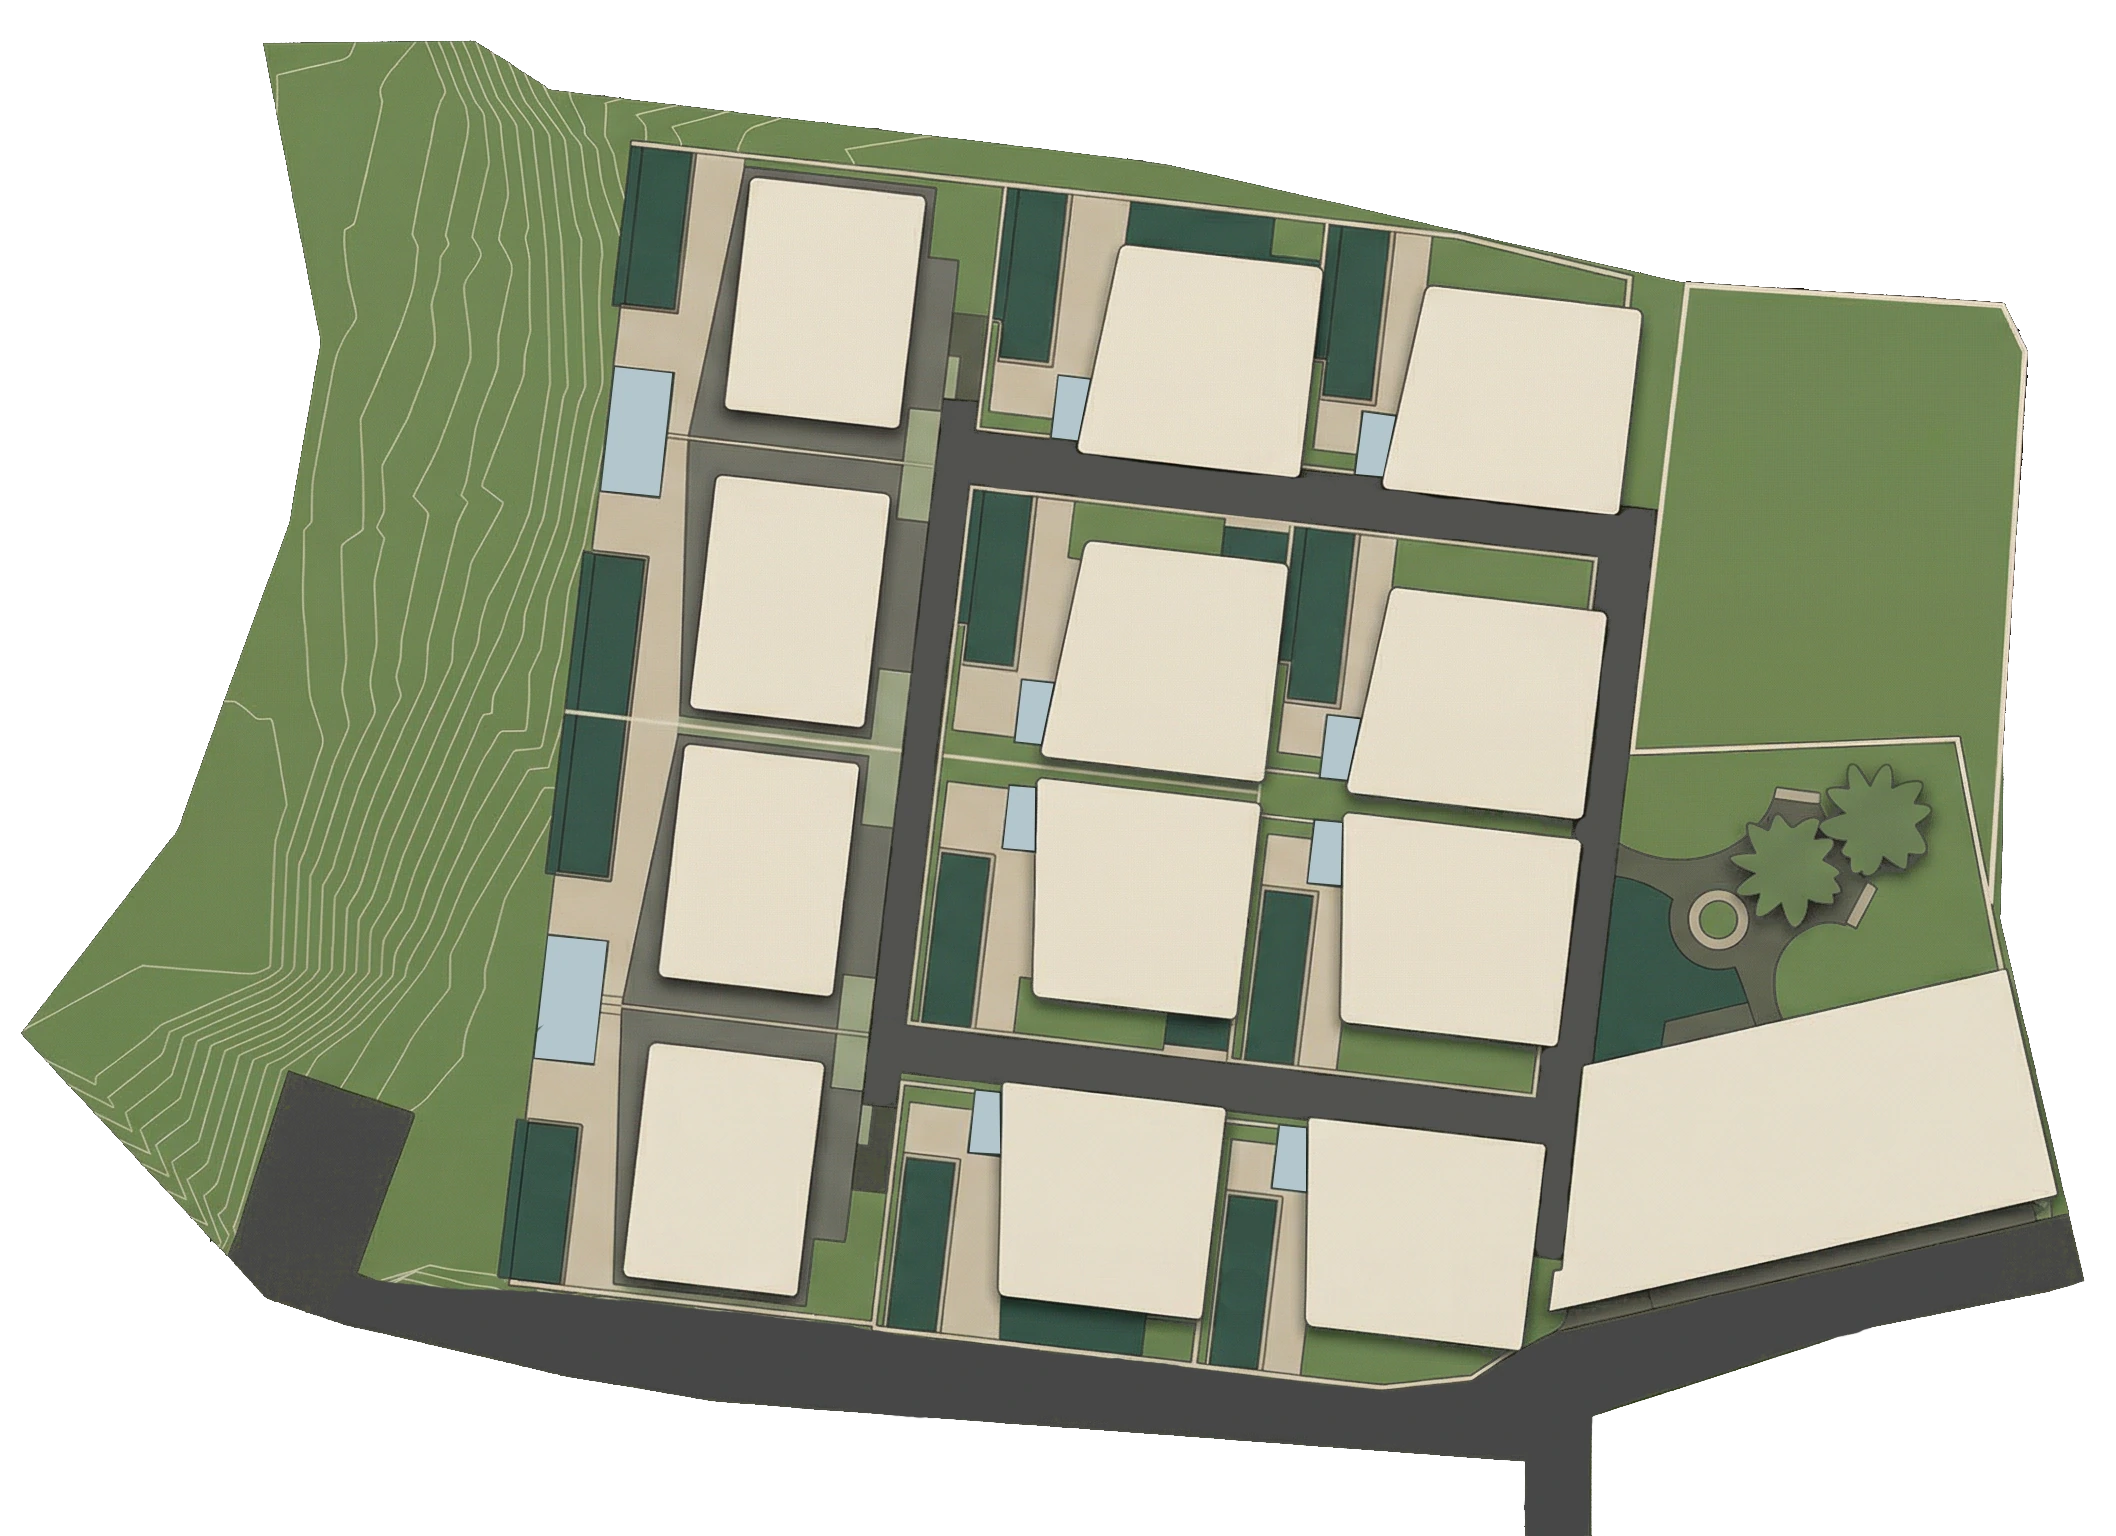
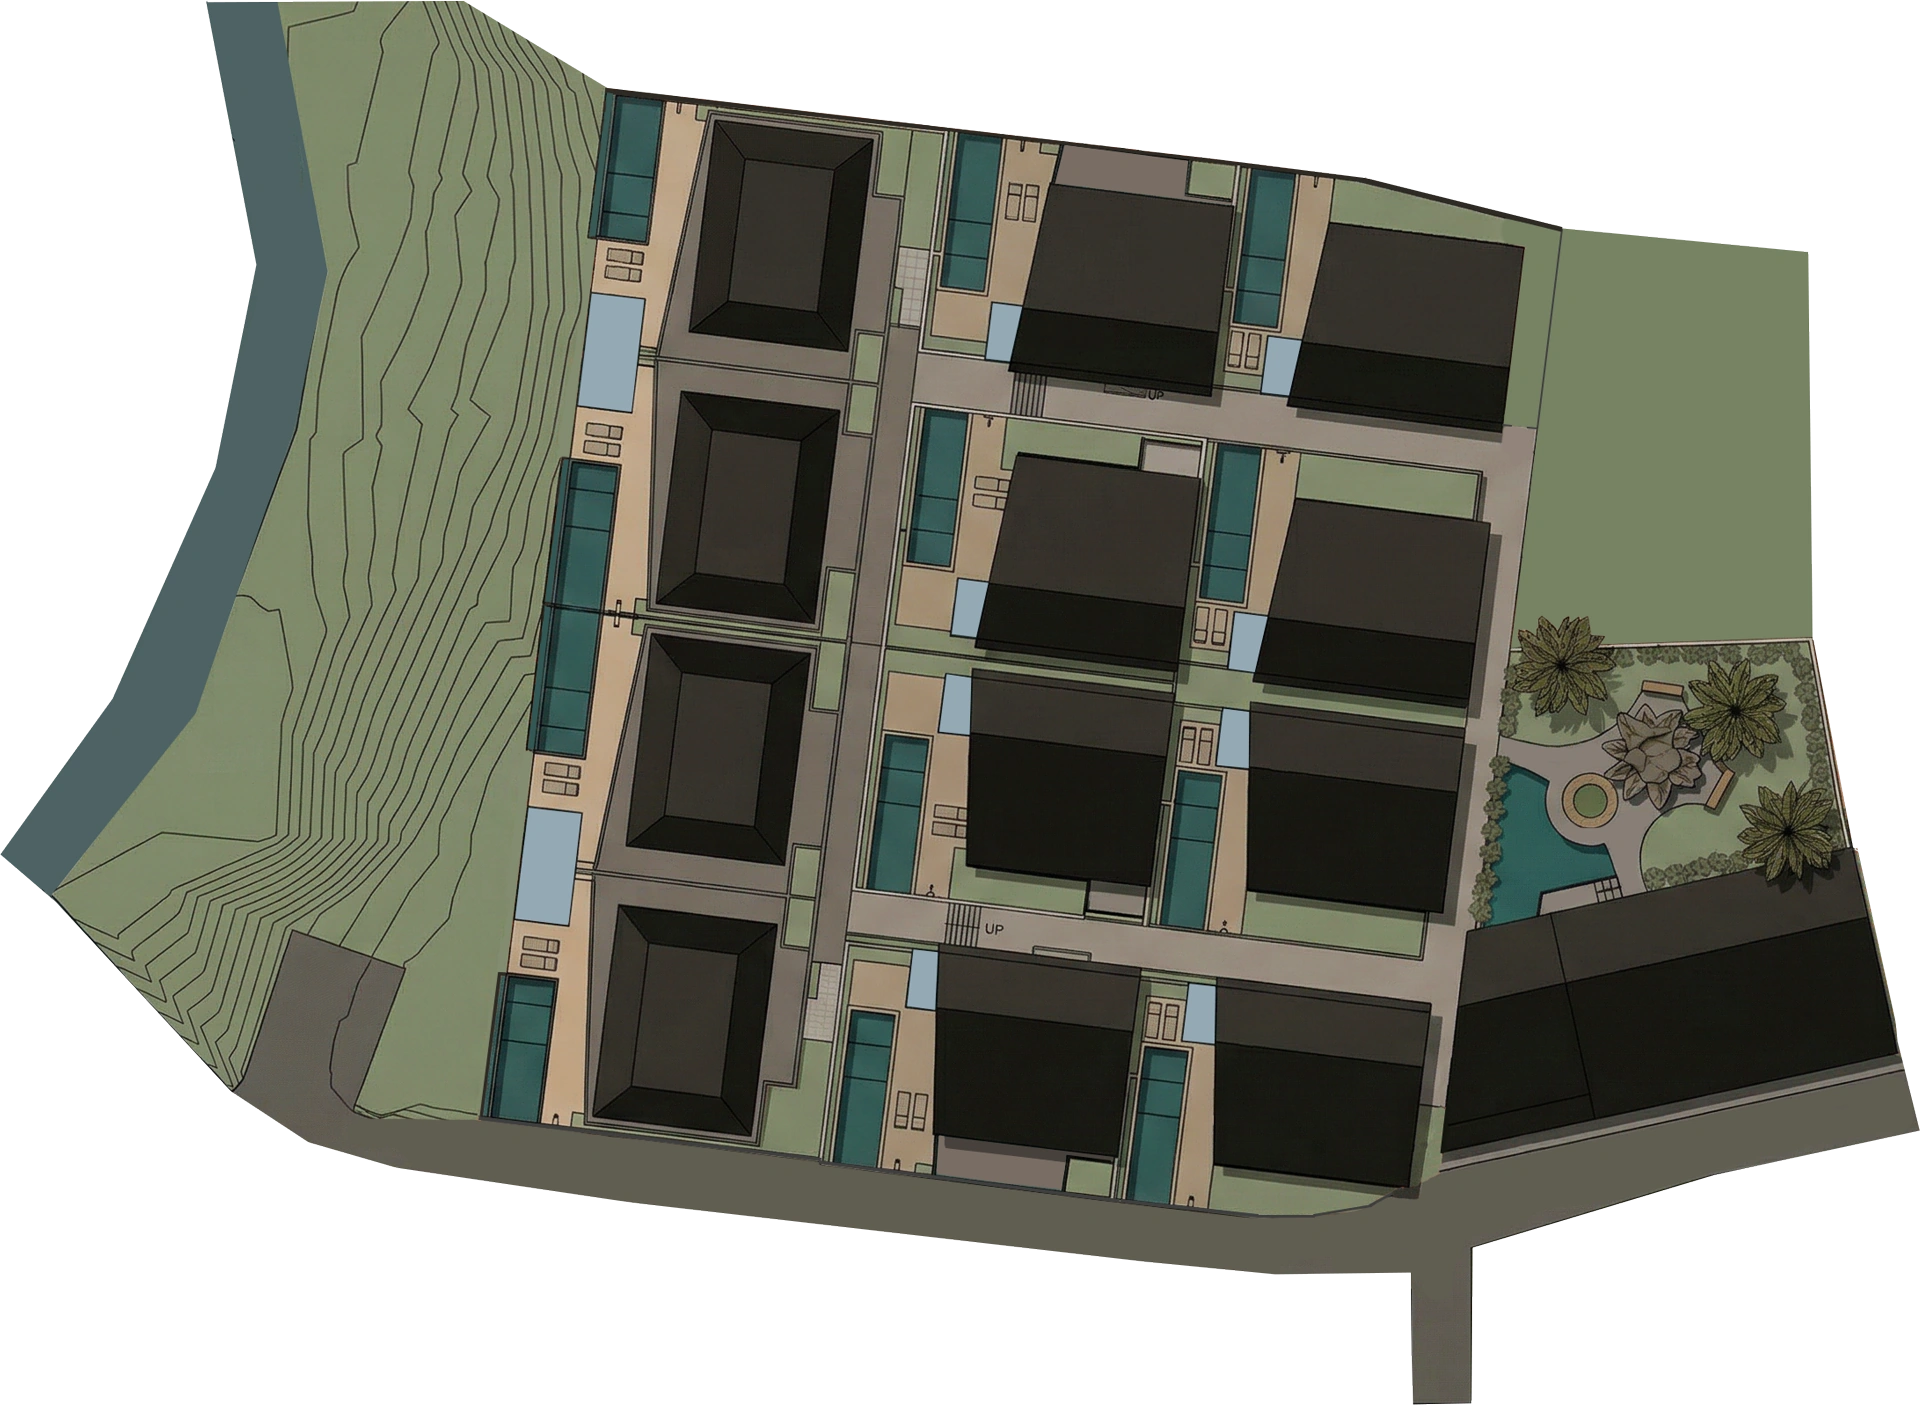
Restyle floor plans + update villas master plan
Floor plans (variant A cosmetic):
- Segmented control for type tabs with container background
- Panel: gradient bg, thin accent top line, softer shadow, more padding
- Floor labels with flanking accent lines (GROUND FLOOR)
- Plan frames with subtle inset highlight + hover lift
- Editorial specs sidebar with accent left border

Villas master plan:
- New image (2183x1597, +aerial rework)
- Updated hotspot coordinates to fit new composition
- Estates hotspot width compensation (4.66%) to match villas visual size

diff --git a/css/style.css b/css/style.css
@@ -832,36 +832,42 @@ td .price-idr {
 
 /* --- Floor Plans --- */
 
-/* Type selector tabs */
-/* Type selector tabs */
+/* Type selector — segmented control */
 .fp-tabs {
-  display: flex;
-  gap: 8px;
+  display: inline-flex;
   flex-wrap: wrap;
-  margin-bottom: 32px;
+  gap: 4px;
+  padding: 6px;
+  margin-bottom: 40px;
+  background: color-mix(in srgb, var(--color-bg-card) 70%, transparent);
+  border: 1px solid var(--color-border);
+  border-radius: 2px;
+  max-width: 100%;
 }
 
 .fp-tabs__btn {
-  padding: 10px 20px;
+  padding: 12px 26px;
   background: transparent;
-  border: 1px solid var(--color-border);
+  border: none;
   border-radius: 2px;
   color: var(--color-text-muted);
   font-family: var(--font-body);
-  font-size: 0.85rem;
+  font-size: 0.78rem;
   font-weight: 600;
+  text-transform: uppercase;
+  letter-spacing: 0.12em;
   cursor: pointer;
-  transition: all 0.3s ease;
+  transition: background 0.25s ease, color 0.25s ease;
 }
 
 .fp-tabs__btn:hover {
-  border-color: var(--color-border-hover);
   color: var(--color-text);
+  background: color-mix(in srgb, var(--color-accent) 10%, transparent);
 }
 
-.fp-tabs__btn--active {
+.fp-tabs__btn--active,
+.fp-tabs__btn--active:hover {
   background: var(--color-accent);
-  border-color: var(--color-accent);
   color: #fff;
 }
 
@@ -872,19 +878,37 @@ td .price-idr {
 
 .fp-panel--active {
   display: grid;
-  grid-template-columns: 1fr 280px;
-  gap: 40px;
+  grid-template-columns: 1fr 300px;
+  gap: 56px;
   align-items: start;
-  padding: 40px;
-  background: var(--color-bg-card);
+  padding: 52px;
+  background: linear-gradient(180deg,
+    var(--color-bg-card) 0%,
+    color-mix(in srgb, var(--color-bg-card) 55%, transparent) 100%);
   border: 1px solid var(--color-border);
   border-radius: 2px;
+  position: relative;
+  box-shadow: 0 24px 64px rgba(0, 0, 0, 0.28);
+}
+
+/* Thin accent line at the top of the panel */
+.fp-panel--active::before {
+  content: '';
+  position: absolute;
+  top: 0;
+  left: 0;
+  right: 0;
+  height: 1px;
+  background: linear-gradient(90deg,
+    transparent 0%,
+    color-mix(in srgb, var(--color-accent) 60%, transparent) 50%,
+    transparent 100%);
 }
 
 /* Floor plans area (left side) */
 .fp-plans {
   display: flex;
-  gap: 24px;
+  gap: 28px;
 }
 
 .fp-plans--single {
@@ -902,33 +926,48 @@ td .price-idr {
   font-size: 0.7rem;
   font-weight: 600;
   text-transform: uppercase;
-  letter-spacing: 0.1em;
-  color: var(--color-text-dim);
-  margin-bottom: 12px;
-  text-align: center;
-}
-
-.fp-floor__img {
-  cursor: pointer;
-  border: 1px solid var(--color-border);
-  border-radius: 2px;
-  overflow: hidden;
-  transition: border-color 0.3s ease;
-  aspect-ratio: 1 / 1;
+  letter-spacing: 0.18em;
+  color: var(--color-accent);
+  margin-bottom: 20px;
   display: flex;
   align-items: center;
   justify-content: center;
+  gap: 14px;
+}
+
+.fp-floor__label::before,
+.fp-floor__label::after {
+  content: '';
+  width: 28px;
+  height: 1px;
+  background: color-mix(in srgb, var(--color-accent) 50%, transparent);
+}
+
+.fp-floor__img {
+  cursor: zoom-in;
+  border: 1px solid var(--color-border);
+  border-radius: 2px;
+  overflow: hidden;
+  transition: border-color 0.3s ease, box-shadow 0.3s ease, transform 0.3s ease;
+  aspect-ratio: 1 / 1;
+  background: rgba(0, 0, 0, 0.18);
+  display: flex;
+  align-items: center;
+  justify-content: center;
+  box-shadow: inset 0 0 0 1px rgba(255, 255, 255, 0.02);
 }
 
 .fp-floor__img:hover {
   border-color: var(--color-accent);
+  box-shadow: 0 10px 32px rgba(0, 0, 0, 0.38);
+  transform: translateY(-2px);
 }
 
 .fp-floor__img img {
   width: 100%;
   height: 100%;
   display: block;
-  padding: 12px;
+  padding: 16px;
   object-fit: contain;
 }
 
@@ -959,31 +998,39 @@ td .price-idr {
   color: var(--color-text-muted);
 }
 
-/* Specs sidebar (right side) */
+/* Specs sidebar (right side) — editorial metric list */
 .fp-specs {
   display: flex;
   flex-direction: column;
   gap: 0;
   justify-content: center;
+  padding-left: 36px;
+  border-left: 1px solid color-mix(in srgb, var(--color-border) 80%, transparent);
 }
 
 .fp-specs__item {
   display: flex;
   align-items: center;
-  gap: 16px;
-  padding: 14px 0;
-  border-bottom: 1px solid var(--color-border);
+  gap: 20px;
+  padding: 22px 0;
+  border-bottom: 1px solid color-mix(in srgb, var(--color-border) 55%, transparent);
+}
+
+.fp-specs__item:first-child {
+  padding-top: 0;
 }
 
 .fp-specs__item:last-child {
   border-bottom: none;
+  padding-bottom: 0;
 }
 
 .fp-specs__icon {
-  width: 32px;
-  height: 32px;
+  width: 26px;
+  height: 26px;
   flex-shrink: 0;
   color: var(--color-accent);
+  opacity: 0.85;
 }
 
 .fp-specs__icon svg {
@@ -993,9 +1040,11 @@ td .price-idr {
 
 .fp-specs__text {
   font-family: var(--font-body);
-  font-size: 0.85rem;
+  font-size: 0.92rem;
   font-weight: 500;
   color: var(--color-text);
+  letter-spacing: 0.01em;
+  line-height: 1.4;
 }
 
 .floor-plan-lightbox {
@@ -3933,7 +3982,7 @@ td .price-idr {
   .fp-panel--active {
     grid-template-columns: 1fr;
     gap: 24px;
-    padding: 24px;
+    padding: 28px;
   }
 
   .fp-specs {
@@ -3941,15 +3990,22 @@ td .price-idr {
     flex-wrap: wrap;
     gap: 0;
     order: -1;
+    border-left: none;
     border-bottom: 1px solid var(--color-border);
+    padding-left: 0;
     padding-bottom: 16px;
     margin-bottom: 0;
   }
 
   .fp-specs__item {
     flex: 0 0 50%;
-    padding: 8px 0;
+    padding: 10px 0;
     border-bottom: none;
+  }
+
+  .fp-specs__item:first-child,
+  .fp-specs__item:last-child {
+    padding: 10px 0;
   }
 
   .fp-plans {
@@ -4362,6 +4418,11 @@ a.testimonials__verified:hover {
 }
 .master-plan[data-master-plan="serenity-estates"].is-leveled .master-plan__image {
   transform: translateY(0);
+}
+/* Compensate hotspot diameter: container is 880px vs villas 1080px,
+   so bump % to keep visual circle size equal to villas (~41px). */
+.master-plan[data-master-plan="serenity-estates"] .master-plan__hotspot {
+  width: 4.66%;
 }
 
 .master-plan__hotspots {

diff --git a/js/main.js b/js/main.js
@@ -2633,10 +2633,10 @@ document.querySelectorAll('.lead-magnet__form').forEach(form => {
     // Coordinates measured from master-plan.webp center-of-rooftop (no CSS rotation).
     var MASTER_PLAN_POSITIONS = {
       'serenity-villas': {
-        'A4': { x: 37, y: 23 }, 'B4': { x: 55, y: 23 }, 'C4': { x: 70, y: 23 },
-        'A3': { x: 37, y: 42 }, 'B3': { x: 55, y: 42 }, 'C3': { x: 70, y: 42 },
-        'A2': { x: 37, y: 58 }, 'B2': { x: 55, y: 58 }, 'C2': { x: 70, y: 58 },
-        'A1': { x: 37, y: 78 }, 'B1': { x: 55, y: 78 }, 'C1': { x: 70, y: 78 }
+        'A4': { x: 38, y: 20 }, 'B4': { x: 57, y: 20 }, 'C4': { x: 72, y: 20 },
+        'A3': { x: 38, y: 39 }, 'B3': { x: 57, y: 39 }, 'C3': { x: 72, y: 39 },
+        'A2': { x: 38, y: 55 }, 'B2': { x: 57, y: 55 }, 'C2': { x: 72, y: 55 },
+        'A1': { x: 38, y: 75 }, 'B1': { x: 57, y: 75 }, 'C1': { x: 72, y: 75 }
       },
       'serenity-estates': {
         'A2': { x: 44, y: 44 }, 'B2': { x: 79, y: 60 },

diff --git a/ru/project-serenity-villas.html b/ru/project-serenity-villas.html
@@ -138,7 +138,7 @@
         <p data-mp-i18n="desc">Кликните на виллу, чтобы посмотреть детали. Проданные подсвечены серым.</p>
       </div>
       <div class="master-plan" data-master-plan="serenity-villas">
-        <img src="../images/serenity-villas/master-plan.webp" alt="Генплан Serenity Villas" class="master-plan__image" loading="lazy" width="2116" height="1536">
+        <img src="../images/serenity-villas/master-plan.webp" alt="Генплан Serenity Villas" class="master-plan__image" loading="lazy" width="2183" height="1597">
         <div class="master-plan__hotspots"></div>
       </div>
       <div class="master-plan__legend reveal">

diff --git a/id/project-serenity-villas.html b/id/project-serenity-villas.html
@@ -138,7 +138,7 @@
         <p data-mp-i18n="desc">Klik villa mana pun untuk melihat detail. Villa terjual ditampilkan redup.</p>
       </div>
       <div class="master-plan" data-master-plan="serenity-villas">
-        <img src="../images/serenity-villas/master-plan.webp" alt="Master Plan Serenity Villas" class="master-plan__image" loading="lazy" width="2116" height="1536">
+        <img src="../images/serenity-villas/master-plan.webp" alt="Master Plan Serenity Villas" class="master-plan__image" loading="lazy" width="2183" height="1597">
         <div class="master-plan__hotspots"></div>
       </div>
       <div class="master-plan__legend reveal">

diff --git a/project-serenity-villas.html b/project-serenity-villas.html
@@ -138,7 +138,7 @@
         <p data-mp-i18n="desc">Click on any villa to see its details. Sold villas are dimmed.</p>
       </div>
       <div class="master-plan" data-master-plan="serenity-villas">
-        <img src="images/serenity-villas/master-plan.webp" alt="Serenity Villas Master Plan" class="master-plan__image" loading="lazy" width="2116" height="1536">
+        <img src="images/serenity-villas/master-plan.webp" alt="Serenity Villas Master Plan" class="master-plan__image" loading="lazy" width="2183" height="1597">
         <div class="master-plan__hotspots"></div>
       </div>
       <div class="master-plan__legend reveal">
